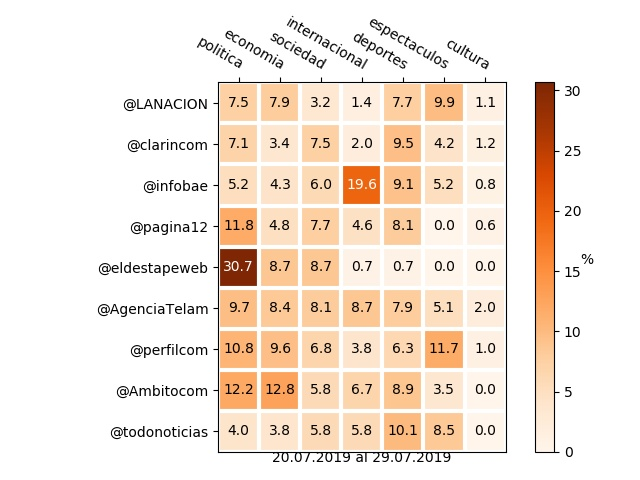
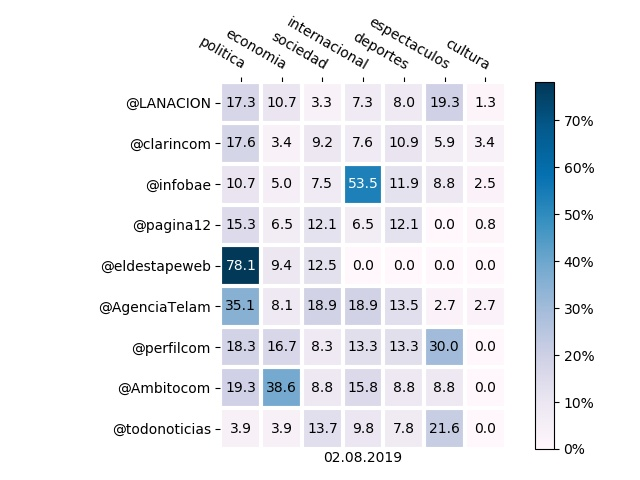
agregado dibujo grafico de barras + agregado modo 'perfil' + fix intensidad

diff --git a/dlm.py b/dlm.py
@@ -119,20 +119,22 @@ def top_todo(parametros):
         print(texto)
 
         if twittear:
-            claves = open("twitter.keys", "r")
-            json_claves = json.load(claves)
+            # claves = open("twitter.keys", "r")
+            # json_claves = json.load(claves)
 
-            consumer_key = json_claves['consumer_key']
-            consumer_secret = json_claves['consumer_secret']
-            access_token = json_claves['access_token']
-            access_token_secret = json_claves['access_token_secret']
-            auth = tweepy.OAuthHandler(consumer_key, consumer_secret)
-            auth.set_access_token(access_token, access_token_secret)
-            api = tweepy.API(auth)
+            # consumer_key = json_claves['consumer_key']
+            # consumer_secret = json_claves['consumer_secret']
+            # access_token = json_claves['access_token']
+            # access_token_secret = json_claves['access_token_secret']
+            # auth = tweepy.OAuthHandler(consumer_key, consumer_secret)
+            # auth.set_access_token(access_token, access_token_secret)
+            # api = tweepy.API(auth)
 
             path_imagen = tag + ".png"
             utiles.nube_de_palabras(path=path_imagen, data=dict(top_todo))
-            api.update_with_media(filename=path_imagen, status=texto)
+            # api.update_with_media(filename=path_imagen, status=texto)
+            utiles.twittear(texto=texto, path_imagen=path_imagen)
+
 
 def top_terminos(parametros):
     fecha = parametros['fecha']
@@ -370,19 +372,68 @@ def intensidad(parametros):
         for cat in categorias:
             n = k.contar_noticias(diario=tag, categorias=[cat], fecha=fecha)
             lista_medio.append(n)
-            total += n
         data.append([n*100/total for n in lista_medio])
 
     conteo = np.array(data)
 
     fig, ax = plt.subplots()
 
-    im, cbar = utiles.heatmap(conteo, etiqueta_medios, categorias, ax=ax, cmap=utiles.cmap_del_dia(), cbarlabel=string_fecha)
+    im, cbar = utiles.heatmap(conteo, etiqueta_medios, categorias, ax=ax, cmap=utiles.cmap_del_dia(), cbarlabel=string_fecha, cbar_format="{x:.0f}%")
     texts = utiles.annotate_heatmap(im, valfmt="{x:.1f}")
 
     fig.tight_layout()
     # plt.show()
     plt.savefig("intensidad.jpg")
+
+def perfil(parametros):
+    fecha = parametros['fecha']
+    medios = set(parametros['medios'])
+    twittear = parametros['twittear']
+
+    if len(medios) == 0:
+        medios = set(['clarin', 'lanacion', 'infobae', 'paginadoce', 'eldestape', 'telam', 'perfil', 'ambito', 'tn'])
+
+    string_fecha = ""
+    if type(fecha) is dict:
+        string_fecha = fecha['desde'].strftime("%d.%m.%Y") + " al " + fecha['hasta'].strftime("%d.%m.%Y")
+    else:
+        string_fecha = fecha.strftime("%d.%m.%Y")
+
+    with open('medios/diarios/config.yaml', 'r') as stream:
+        try:
+            config = yaml.safe_load(stream)
+        except yaml.YAMLError as exc:
+            print(exc)
+
+    etiqueta_medios = []
+    k = Kiosco()
+    for diario in config['diarios']:
+        tag = diario['tag']
+        categorias = k.categorias_existentes(diario=tag)
+        etiqueta_medios = [diario['twitter']]
+        if tag not in medios:
+            continue
+        lista_medio = []
+        total = k.contar_noticias(diario=tag, fecha=fecha)
+        if total == 0:
+            continue
+        for cat in categorias:
+            n = k.contar_noticias(diario=tag, categorias=[cat], fecha=fecha)
+            lista_medio.append(n)
+
+        data = []
+        data.extend([n*100/total for n in lista_medio])
+        conteo = np.array(data)
+
+        utiles.graf_de_barras(path="perfil-" + tag + ".jpg", titulo="Resumen de " + diario['twitter'] + " - " + string_fecha, etiquetas=categorias, unidad="%", data=data)
+
+        # fig, ax = plt.subplots()
+        # im, cbar = utiles.heatmap(conteo, etiqueta_medios, categorias, ax=ax, cmap=utiles.cmap_del_dia(), cbarlabel=string_fecha, cbar_format="{x:.0f}%")
+        # texts = utiles.annotate_heatmap(im, valfmt="{x:.1f}")
+
+        # fig.tight_layout()
+        # plt.show()
+        # plt.savefig("perfil-" + tag + ".jpg")
 
 def usage():
     print("dlm (dicen-los-medios) v1.1")
@@ -392,11 +443,12 @@ def usage():
     print("--top-terminos [MAX] [MEDIO_1] [MEDIO_2] ... [MEDIO_N] - muestra el top MAX de terminos de todos los medios, a menos que se especifiquen los MEDIOS a analizar")
     print("--top-personas [MAX] [MEDIO_1] [MEDIO_2] ... [MEDIO_N] - muestra el top MAX de personas de todos los medios, a menos que se especifiquen los MEDIOS a analizar")
     print("--top-verbos [MAX] [MEDIO_1] [MEDIO_2] ... [MEDIO_N] - muestra el top MAX de verbos de todos los medios, a menos que se especifiquen los MEDIOS a analizar")
-    print("--intensidad [MEDIO_1] [MEDIO_2] ... [MEDIO_N] - muestra la intensidad de noticias de los medios segun la categoria")
+    print("--intensidad [MEDIO_1] [MEDIO_2] ... [MEDIO_N] - muestra una tabla con la intensidad de noticias por categorias de todos los medios, a menos que se especifiquen los MEDIOS a incluir en la tabla")
+    print("--perfil [MEDIO_1] [MEDIO_2] ... [MEDIO_N] - muestra la cantidad de noticias por categoria de todos los medios, a menos que se especifiquen los MEDIOS a analizar")
     print("PARAMETROS OPCIONALES")
     print("--categorias c1-c2-...-cn - analiza las noticias de las categorias c1, c2, ..., cn: CATEGORIAS DISPONIBLES: 'politica', 'economia', 'sociedad', 'internacional', 'cultura', 'espectaculos', 'deportes'")
     print("--fecha AAAAMMDD - analiza las noticias con fecha AAAMMDD")
-    print("--fecha AAAAMMDD_desde-AAAAMMDD_hasta - analiza las noticias dentro del rango de fechas AAAAMMDD_desde -> AAAAMMDD_hasta ")
+    print("--fecha AAAAMMDD-AAAAMMDD - analiza las noticias dentro del rango de fechas AAAAMMDD->AAAAMMDD")
     print("--twittear - indica que el texto y la imagén resultante se suben a @dicenlosmedios")
     print("--solo-titulos - indica que solo se analizan títulos")
 
@@ -407,7 +459,7 @@ def main():
     accion = None
     top_max = 10
     try:
-        opts, args = getopt.getopt(sys.argv[1:], "h", ["help", "leer", "top-todo=", "top-terminos=", "top-personas=", "top-verbos=", "intensidad", "fecha=", "categorias=", "twittear", "solo-titulos"])
+        opts, args = getopt.getopt(sys.argv[1:], "h", ["help", "leer", "top-todo=", "top-terminos=", "top-personas=", "top-verbos=", "intensidad", "perfil", "fecha=", "categorias=", "twittear", "solo-titulos"])
     except getopt.GetoptError as err:
         print(err)
         usage()
@@ -449,6 +501,8 @@ def main():
             accion=top_verbos
         elif o == "--intensidad":
             accion=intensidad
+        elif o == "--perfil":
+            accion=perfil
         elif o == "--fecha":
             fecha = None
             if len(a.split('-')) == 2:

diff --git a/utiles.py b/utiles.py
@@ -1,13 +1,15 @@
 import datetime
+import json
 
 import numpy as np
 import matplotlib
 import matplotlib.pyplot as plt
 
 from wordcloud import WordCloud as wc
+import tweepy
 
 def heatmap(data, row_labels, col_labels, ax=None,
-            cbar_kw={}, cbarlabel="", **kwargs):
+            cbar_kw={}, cbar_format="{x:.0f}", cbarlabel="", **kwargs):
     """
     Create a heatmap from a numpy array and two lists of labels.
 
@@ -37,8 +39,8 @@ def heatmap(data, row_labels, col_labels, ax=None,
     im = ax.imshow(data, **kwargs)
 
     # Create colorbar
-    cbar = ax.figure.colorbar(im, ax=ax, **cbar_kw)
-    cbar.ax.set_ylabel("%", rotation=0, va="bottom")
+    cbar_formatter = matplotlib.ticker.StrMethodFormatter(cbar_format)    
+    cbar = ax.figure.colorbar(im, ax=ax, format=cbar_formatter, **cbar_kw)
 
     # We want to show all ticks...
     ax.set_xticks(np.arange(data.shape[1]))
@@ -46,7 +48,7 @@ def heatmap(data, row_labels, col_labels, ax=None,
     # ... and label them with the respective list entries.
     ax.set_xticklabels(col_labels)
     ax.set_yticklabels(row_labels)
-    ax.set_xlabel(cbarlabel, rotation=0, va="bottom")
+    ax.set_xlabel(cbarlabel, rotation=0, va="baseline")
 
     # Let the horizontal axes labeling appear on top.
     ax.tick_params(top=True, bottom=False,
@@ -131,7 +133,19 @@ def nube_de_palabras(path, data):
     wordcloud.recolor(100)
     wordcloud.to_file(path)
 
-def g_de_barras(path, data):
+def graf_de_barras(path, titulo, etiquetas, unidad, data):
+    y_pos = np.arange(len(etiquetas))
+
+    fig, ax = plt.subplots()
+    plt.bar(y_pos, data, align='center', alpha=0.5)
+    plt.xticks(y_pos, etiquetas)
+    plt.setp(ax.get_xticklabels(), rotation=40, ha="right",
+             rotation_mode="anchor")
+    plt.ylabel(unidad)
+    plt.title(titulo)
+    plt.savefig(path)
+
+    # plt.show()
     
 
 def cmap_del_dia():
@@ -144,4 +158,18 @@ def cmap_del_dia():
     idx = (hoy.year + hoy.month + hoy.day) % len(cmaps)
 
     return cmaps[idx]
+
+def twittear(texto, path_imagen):
+    claves = open("twitter.keys", "r")
+    json_claves = json.load(claves)
+
+    consumer_key = json_claves['consumer_key']
+    consumer_secret = json_claves['consumer_secret']
+    access_token = json_claves['access_token']
+    access_token_secret = json_claves['access_token_secret']
+    auth = tweepy.OAuthHandler(consumer_key, consumer_secret)
+    auth.set_access_token(access_token, access_token_secret)
+    api = tweepy.API(auth)
+
+    api.update_with_media(filename=path_imagen, status=texto)
 

diff --git a/test/test_paginadoce.py b/test/test_paginadoce.py
@@ -1,4 +1,5 @@
 import unittest
+from urllib.request import Request, urlopen
 
 import newspaper as np
 
@@ -15,3 +16,15 @@ class TestPaginaDoce(unittest.TestCase):
         p12 = PaginaDoce()
         categoria, titulo, texto = p12.parsear_noticia(url="https://www.pagina12.com.ar/207920-ricky-martin-al-frente-de-las-manifestaciones-en-puerto-rico")
         return 1
+
+    def test_parsear_categoria(self):
+        p12 = PaginaDoce()
+        headers = {'User-Agent': 'Mozilla/5.0'}
+        req1 = Request("https://www.pagina12.com.ar/203751-la-autogestion-tiene-mas-tela-para-cortar", headers=headers)
+        req2 = Request("https://www.pagina12.com.ar/209532-genocidas", headers=headers)
+        req3 = Request("https://www.pagina12.com.ar/209487-dime-de-que-hablas-pajarita", headers=headers)
+
+        c1 = p12.parsear_categoria(html=urlopen(req1).read())
+        c2 = p12.parsear_categoria(html=urlopen(req2).read())
+        c3 = p12.parsear_categoria(html=urlopen(req3).read())
+        return c1 == "el pais" and c2 == "rosario12" and c3 == "las12"

diff --git a/medios/diarios/paginadoce.py b/medios/diarios/paginadoce.py
@@ -53,7 +53,8 @@ class PaginaDoce(Diario):
             return None
         
         signos = string.punctuation + "¡¿\n"
-        categoria = articulo.meta_keywords[0].translate(str.maketrans('áéíóúý', 'aeiouy', signos)).strip().lower()
+        # categoria = articulo.meta_keywords[0].translate(str.maketrans('áéíóúý', 'aeiouy', signos)).strip().lower()
+        categoria = self.parsear_categoria(articulo.html)
 
         if categoria == "el pais":
             categoria = "politica"
@@ -62,3 +63,9 @@ class PaginaDoce(Diario):
             categoria = "internacional"
 
         return  categoria, articulo.title, articulo.text
+
+    def parsear_categoria(self, html):
+        feed = bs(html, 'lxml')
+        categoria = feed.find(lambda tag: tag.name == 'div' and tag.get('class') == ['suplement']).text
+        signos = string.punctuation + "¡¿\n"
+        return categoria.translate(str.maketrans('áéíóúý', 'aeiouy', signos)).strip().lower()

diff --git a/bd/entidades.py b/bd/entidades.py
@@ -72,3 +72,23 @@ class Kiosco:
             query['url']=url
 
         return self.bd.noticias.count_documents(query)
+
+    def categorias_existentes(self, fecha=None, diario=None, url=None):
+        query = {}
+
+        if fecha:
+            if type(fecha) is dict:
+                desde = datetime.datetime(fecha['desde'].year, fecha['desde'].month, fecha['desde'].day, 0,0,0)
+                hasta = datetime.datetime(fecha['hasta'].year, fecha['hasta'].month, fecha['hasta'].day, 23,59,59)                
+            else:
+                desde = datetime.datetime(fecha.year, fecha.month, fecha.day, 0,0,0)
+                hasta = datetime.datetime(fecha.year, fecha.month, fecha.day, 23,59,59)
+            query['fecha']={"$gte":desde, "$lte":hasta}
+
+        if diario:
+            query['diario']=diario
+
+        if url:
+            query['url']=url
+
+        return self.bd.noticias.distinct("cat", query)

diff --git a/test/test_tweepy.py b/test/test_tweepy.py
@@ -1,0 +1,33 @@
+import codecs
+import string
+import json
+
+import pathlib
+import unittest
+
+import nltk
+from nltk.corpus import cess_esp
+
+from ia.txt import NLP
+from bd.entidades import Kiosco
+import tweepy
+
+class TestTweepy(unittest.TestCase):
+
+    def test_trends_place(self):
+        claves = open("twitter.keys", "r")
+        json_claves = json.load(claves)
+        consumer_key = json_claves['consumer_key']
+        consumer_secret = json_claves['consumer_secret']
+        access_token = json_claves['access_token']
+        access_token_secret = json_claves['access_token_secret']
+        auth = tweepy.OAuthHandler(consumer_key, consumer_secret)
+        auth.set_access_token(access_token, access_token_secret)
+        api = tweepy.API(auth)
+
+        tendencias = api.trends_place(468739)
+        return 1
+
+
+if __name__ == '__main__':
+    unittest.main()

diff --git a/dlm-twittero.py b/dlm-twittero.py
@@ -43,7 +43,8 @@ else:
 tupla = tuplas_tag_cat[idx]
 fecha = datetime.datetime.now().date() - datetime.timedelta(days=1)
 
-while k.contar_noticias(fecha=fecha, diario=tupla[0], categorias=tupla[1]) == 0:
+while k.contar_noticias(fecha=fecha, diario=tupla[0], categorias=tupla[1]) < 3:
+    # chequeo que hayan por lo menos 2 noticias para que el analisis sea representativo.
     k.bd.temp.update_one({'clave':'indice-twittero'}, {'$inc':{'idx':1}})
     idx += 1
     tupla = tuplas_tag_cat[idx]
